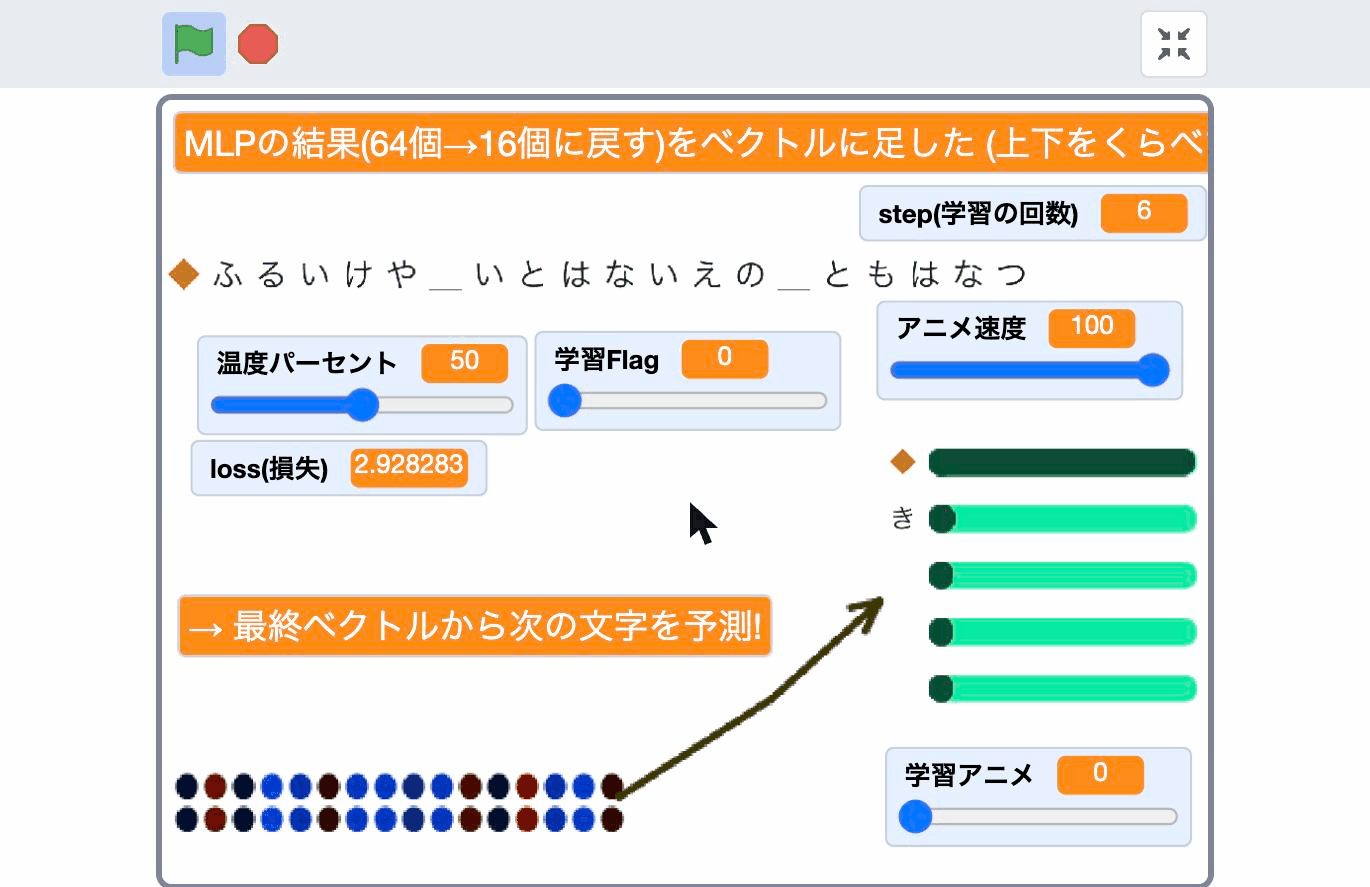
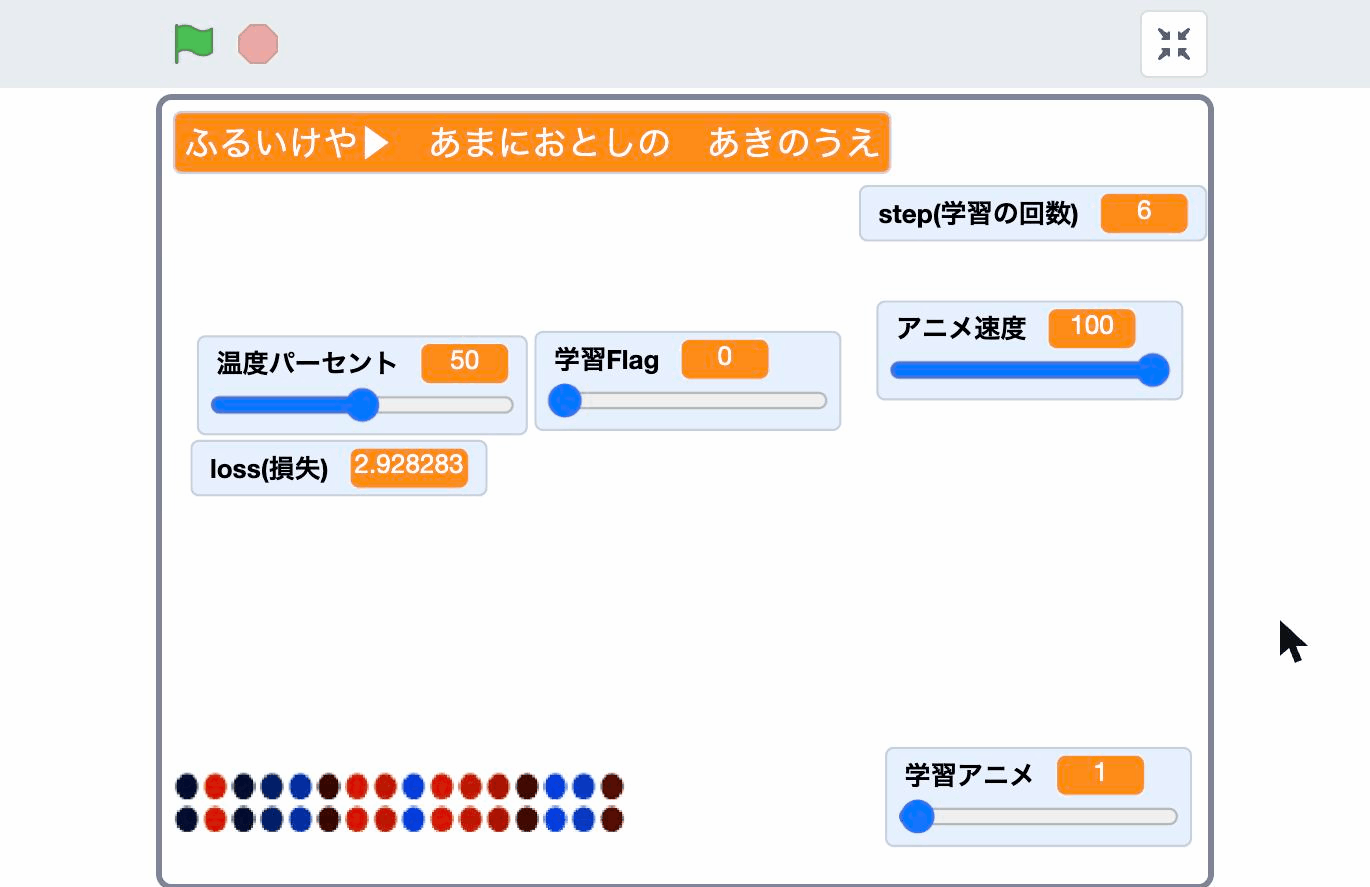
microgpt記事: 出力例・スクショ・重み画像を出荷時重みで統一
- 本文の生成例とスクショの俳句が食い違っていたのを修正。出荷時重み
  (nd先頭0.0318…)で「ふるいけや」を再推論し、inference.gif /
  usage_output.png / 本文68行目を同じ推論結果に揃えた
  (ふるいけや▶　あまにおとしの　あきのうえ)
- docs例(83行目)を実際の学習データ2件目に修正
  (ひとさりて　あんどんきえて　きりひとは)
- weights_nd.png を出荷時のnd値で撮り直し(長さ6080)

diff --git a/articles/microgpt_on_scratch.md b/articles/microgpt_on_scratch.md
@@ -65,7 +65,7 @@ Fableです。ここからは僕が書きます。
 ![](/images/microgpt_on_scratch/usage_output.png)
 
 ```
-ふるいけや▶　なつきのゆきの　いろのかな
+ふるいけや▶　あまにおとしの　あきのうえ
 ```
 
 `▶` の左が入力した上五、右が生成した部分です。全角スペースは 5-7-5 の区切りとして学習させてあるので、生成にもちゃんと入ります。温度は `温度パーセント` スライダーで変えられます。低くすると固い（それっぽい）出力に、高くすると崩れた出力になります。
@@ -80,7 +80,7 @@ Fableです。ここからは僕が書きます。
 
 ```
 とのそとに　むしろおるなり　なつのつき
-かどまつや　ひとりしきくは　よるのあめ
+ひとさりて　あんどんきえて　きりひとは
 たきぎをわる　いもうとひとり　ふゆごもり
 ```
 
